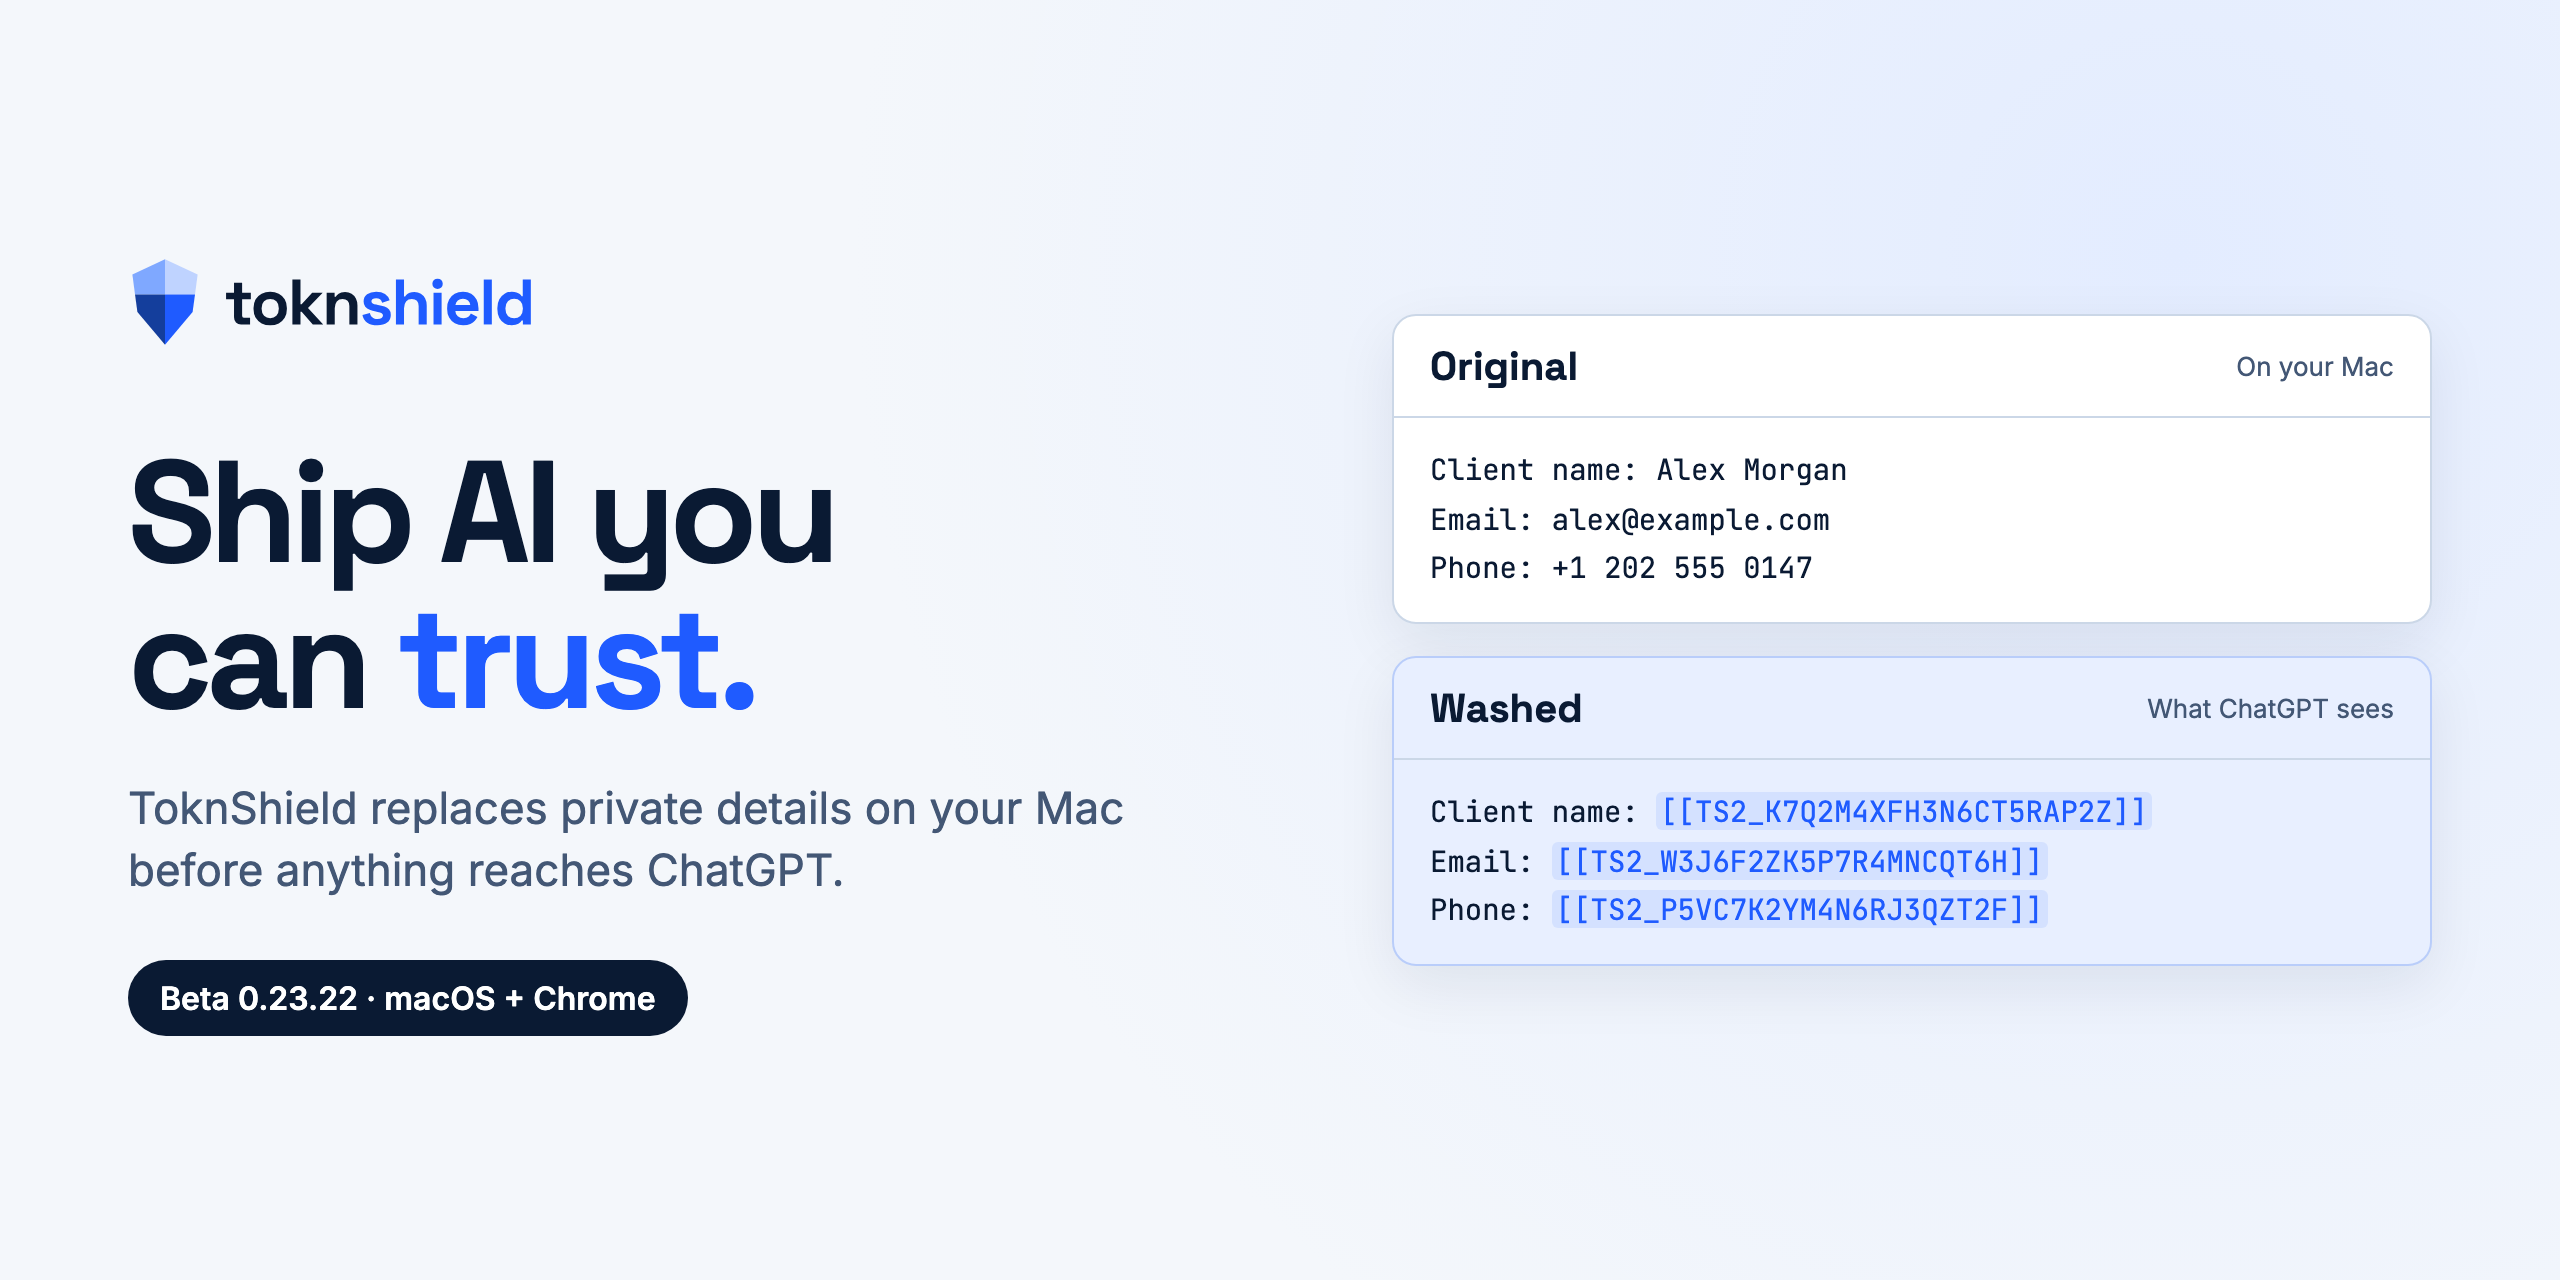
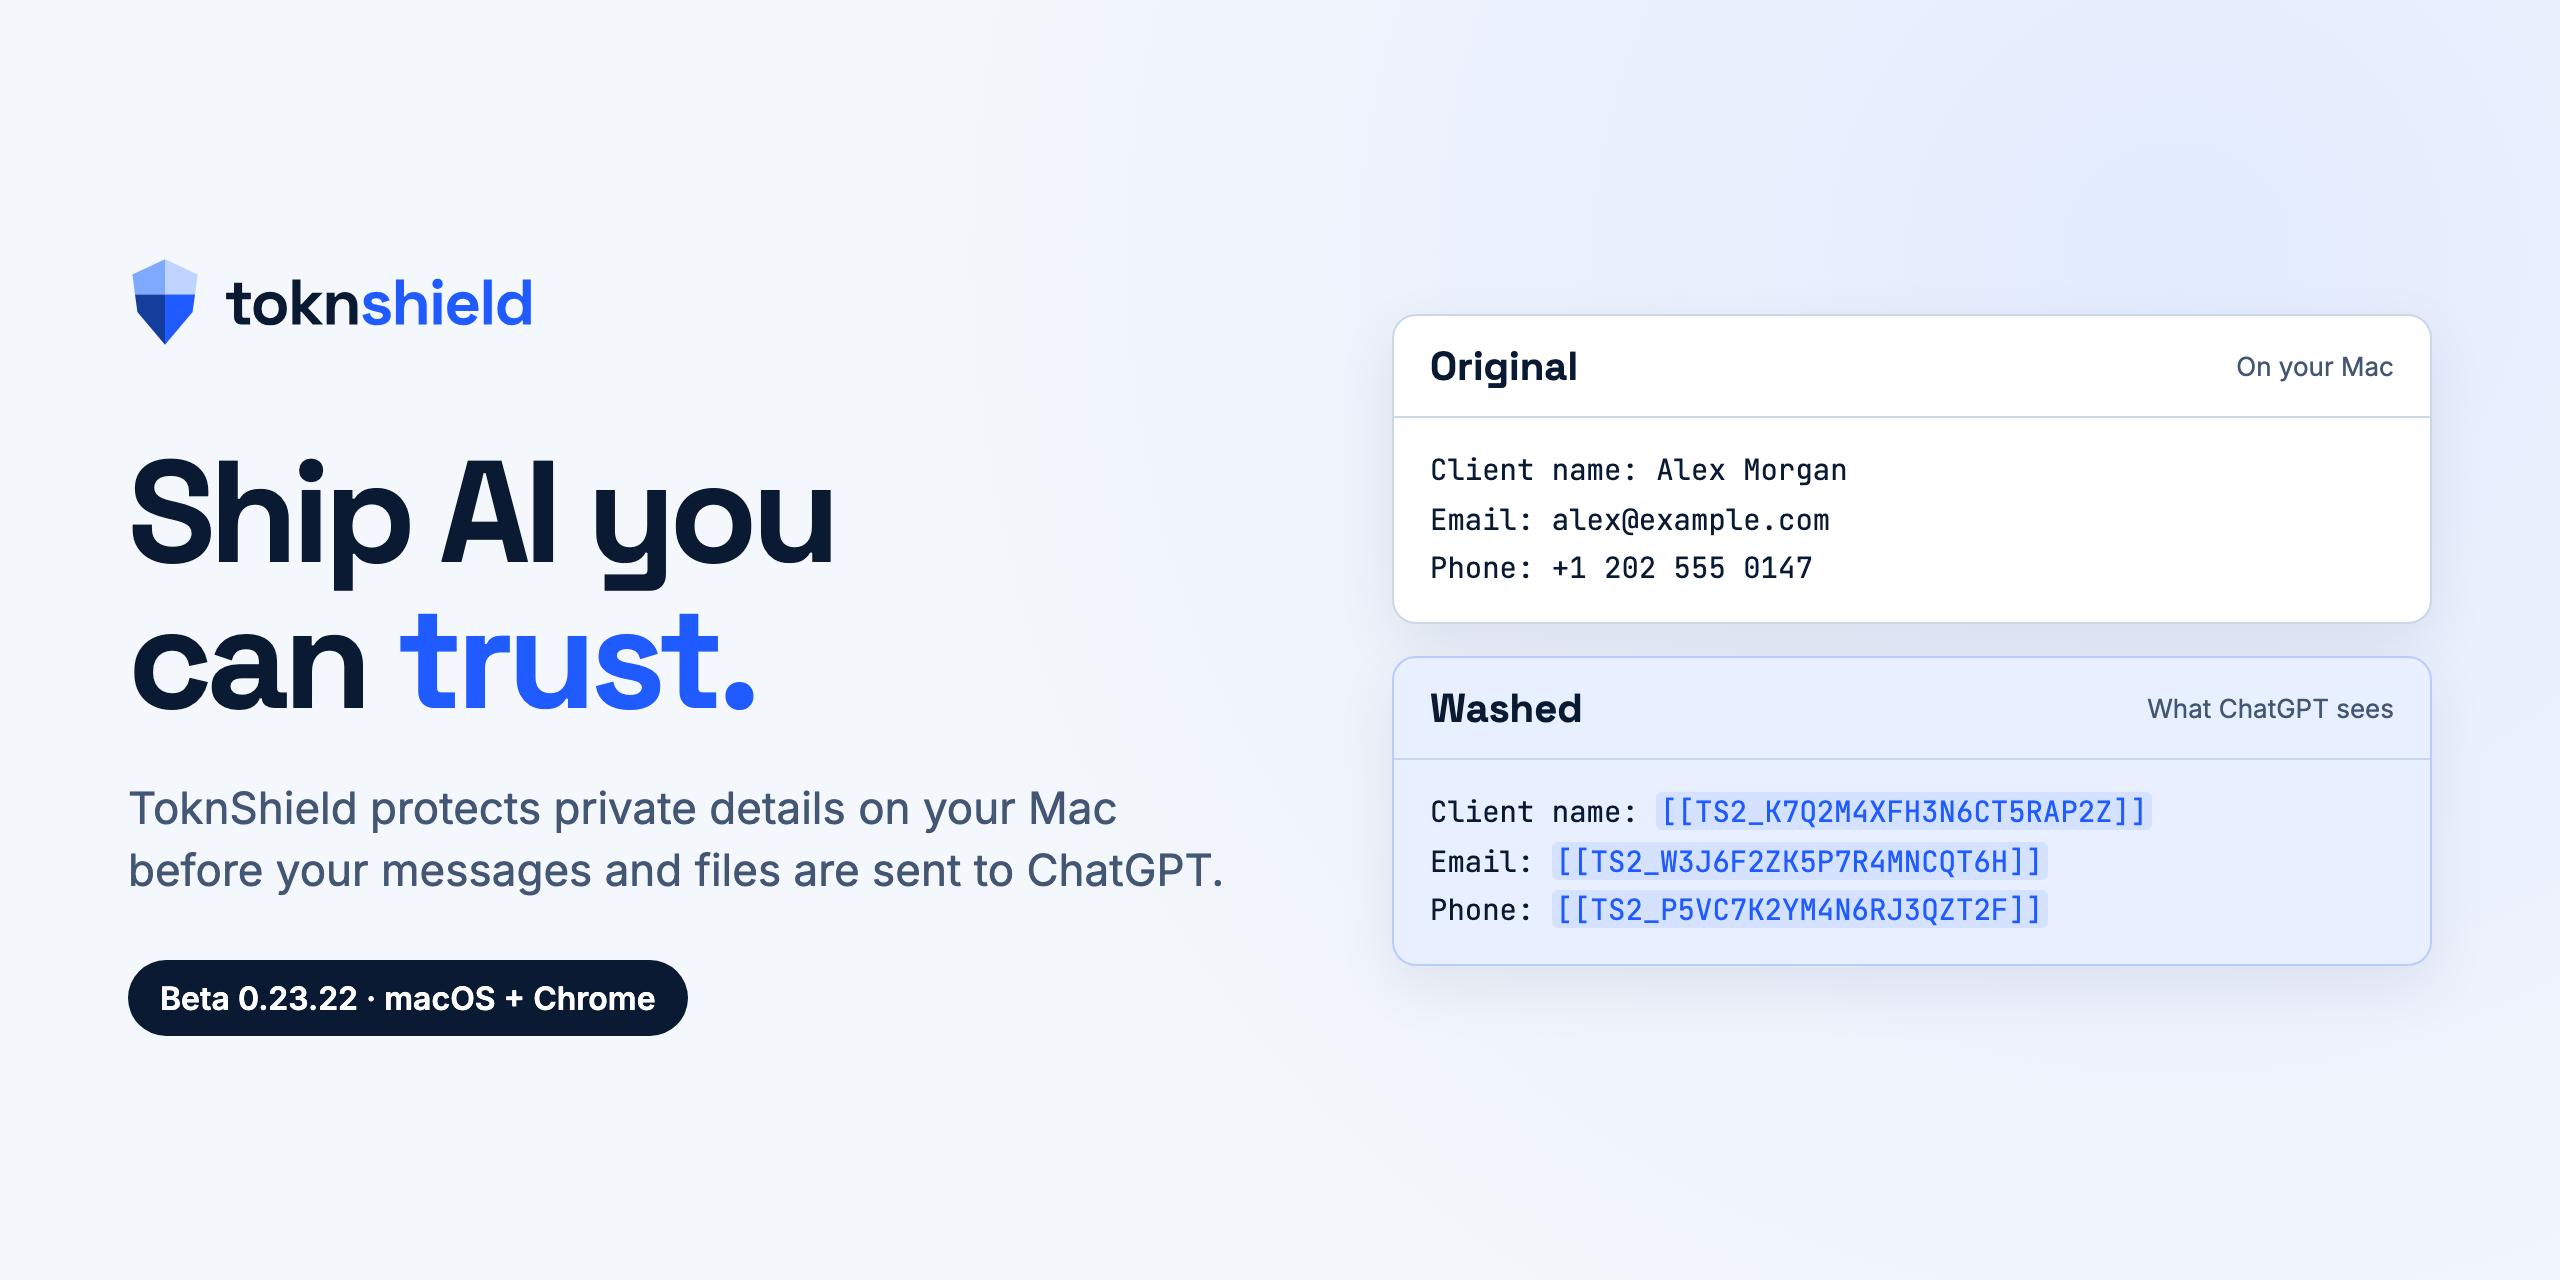
Extension 0.29.14.50 and accurate privacy wording
- Download links point to ToknShield-Chrome-Extension-0.29.14.50.zip
- Say originals stay on the Mac for files attached through ToknShield,
  and warn against picking private files from Drive or ChatGPT Library
- Install guide: update steps for existing testers

Changed region(s): [[0.0938, 0.625, 0.4688, 0.7188]]

diff --git a/index.html b/index.html
@@ -4,9 +4,9 @@
 <meta charset="utf-8">
 <meta name="viewport" content="width=device-width, initial-scale=1">
 <title>ToknShield Beta</title>
-<meta name="description" content="Download the ToknShield beta. Private details are replaced on your Mac before anything reaches ChatGPT.">
+<meta name="description" content="Download the ToknShield beta. Private details are protected on your Mac before your messages and files are sent to ChatGPT.">
 <meta property="og:title" content="ToknShield Beta: Ship AI you can trust">
-<meta property="og:description" content="Private details are replaced on your Mac before anything reaches ChatGPT.">
+<meta property="og:description" content="Private details are protected on your Mac before your messages and files are sent to ChatGPT.">
 <meta property="og:image" content="https://beta.toknshield.com/assets/banner.png">
 <meta name="twitter:card" content="summary_large_image">
 <meta name="color-scheme" content="light">
@@ -95,7 +95,7 @@ footer .wrap{display:flex;justify-content:space-between;flex-wrap:wrap;gap:12px}
   <div>
     <span class="tag">Private beta · version 0.23.22</span>
     <h1>Ship AI you can <em>trust.</em></h1>
-    <p class="lede">ToknShield replaces names, emails, phone numbers and account details on your Mac, before anything reaches ChatGPT. Your originals never leave your Mac.</p>
+    <p class="lede">ToknShield replaces names, emails, phone numbers and account details on your Mac before your messages and files are sent to ChatGPT.</p>
     <div class="cta">
       <a class="btn primary" href="#download">Download the beta</a>
       <a class="btn ghost" href="https://github.com/ToknShield/ToknShield-beta/blob/main/BETA-INSTALL.md">Install guide</a>
@@ -136,9 +136,10 @@ Phone: <span class="t">[[TS2_P5VC7K2YM4N6RJ3QZT2F]]</span></pre></div>
   <p class="sub">There's nothing to sign up for and nothing sent to us.</p>
   <div class="grid3">
     <div class="tile"><h3>On your Mac</h3><p>Detection and protection happen on your Mac. No servers, no accounts, no analytics.</p></div>
-    <div class="tile"><h3>Only the safe version</h3><p>ChatGPT receives placeholders, never the original text or document you protected.</p></div>
+    <div class="tile"><h3>Only the safe version</h3><p>When you attach a supported file through ToknShield, the original stays on your Mac and ChatGPT receives only the protected copy.</p></div>
     <div class="tile"><h3>Blocks when unsure</h3><p>If ToknShield can't confirm something is protected, it stops the send. It never falls back to the original.</p></div>
   </div>
+  <p class="fine" style="margin-top:20px">For this beta, use made-up or non-sensitive files, and don&rsquo;t select private files from Drive or ChatGPT Library. ChatGPT fetches those files itself, so ToknShield can&rsquo;t protect them.</p>
 </div></section>
 
 <section id="download"><div class="wrap">
@@ -147,8 +148,8 @@ Phone: <span class="t">[[TS2_P5VC7K2YM4N6RJ3QZT2F]]</span></pre></div>
   <div class="dl">
     <a href="https://github.com/ToknShield/ToknShield-beta/releases/download/v0.23.22-beta/ToknShield-0.23.22-beta.pkg">
       <span><b>Mac app</b><small>ToknShield-0.23.22-beta.pkg · 2.2 MB</small></span><span class="arrow">↓</span></a>
-    <a href="https://github.com/ToknShield/ToknShield-beta/releases/download/v0.23.22-beta/ToknShield-Chrome-Extension-0.29.14.49.zip">
-      <span><b>Chrome extension</b><small>ToknShield-Chrome-Extension-0.29.14.49.zip · 2.9 MB</small></span><span class="arrow">↓</span></a>
+    <a href="https://github.com/ToknShield/ToknShield-beta/releases/download/v0.23.22-beta/ToknShield-Chrome-Extension-0.29.14.50.zip">
+      <span><b>Chrome extension</b><small>ToknShield-Chrome-Extension-0.29.14.50.zip · 2.9 MB</small></span><span class="arrow">↓</span></a>
   </div>
   <ol class="steps" style="margin-top:28px">
     <li><b>Install the app</b><span>Quit Chrome, open the .pkg and follow the installer. A shield appears in your menu bar.</span></li>

diff --git a/BETA-INSTALL.md b/BETA-INSTALL.md
@@ -1,9 +1,9 @@
 # Installing the ToknShield beta
 
-ToknShield beta 0.23.22: the Mac app plus the Chrome extension (version 0.29.14.49). Setup takes about five minutes.
+ToknShield beta 0.23.22: the Mac app plus the Chrome extension (version 0.29.14.50). Setup takes about five minutes.
 
 You'll need a Mac with Google Chrome, an administrator password for the Mac, and ChatGPT set to English.
-While you're trying the beta, please use made-up or non-sensitive details.
+When you attach a supported file through ToknShield, the original stays on your Mac and ChatGPT receives only the protected copy. For this beta, use made-up or non-sensitive files, and don't select private files from Drive or ChatGPT Library.
 
 Questions or problems: **[tom@capinora.com](mailto:tom@capinora.com)**
 
@@ -12,7 +12,7 @@ Questions or problems: **[tom@capinora.com](mailto:tom@capinora.com)**
 From the [release page](https://github.com/ToknShield/ToknShield-beta/releases/tag/v0.23.22-beta), download both files:
 
 - `ToknShield-0.23.22-beta.pkg`: the Mac app
-- `ToknShield-Chrome-Extension-0.29.14.49.zip`: the Chrome extension
+- `ToknShield-Chrome-Extension-0.29.14.50.zip`: the Chrome extension
 
 Double-click the zip to unzip it. Move the **ToknShield Chrome Extension** folder somewhere permanent, such as your Documents folder.
 Chrome runs the extension from this folder, so if you delete or move it later, the extension stops working.
@@ -80,6 +80,16 @@ The original details are shown in ToknShield's own window, on your Mac only.
   ToknShield stops the message being sent, but it can't stop that fetch, so avoid picking private files from there.
 - **In a small Chrome window,** scroll inside the ToknShield panel to find the PDF review and the Attach button.
 
+## Updating the extension
+
+If you installed an earlier beta extension, you don't need to reinstall the Mac app.
+
+1. Download `ToknShield-Chrome-Extension-0.29.14.50.zip` from the release page and unzip it.
+2. Replace your existing **ToknShield Chrome Extension** folder with the new one, in the same place.
+3. In Chrome, go to `chrome://extensions` and click the reload arrow on ToknShield. It should now say version 0.29.14.50.
+
+The Mac app's menu may still show "Extension 0.29.14.49". That label is fixed in the installer, and the two work together.
+
 ## Removing ToknShield
 
 1. Quit Chrome, then quit ToknShield from the shield in the menu bar.
@@ -102,5 +112,5 @@ If you install an older version over a newer one, macOS reports success but keep
 To confirm the files are exactly what we published, run this in Terminal and compare the results with `SHA256SUMS` on the release page:
 
 ```
-shasum -a 256 ~/Downloads/ToknShield-0.23.22-beta.pkg ~/Downloads/ToknShield-Chrome-Extension-0.29.14.49.zip
+shasum -a 256 ~/Downloads/ToknShield-0.23.22-beta.pkg ~/Downloads/ToknShield-Chrome-Extension-0.29.14.50.zip
 ```

diff --git a/README.md b/README.md
@@ -1,5 +1,5 @@
 <p align="center">
-  <img src="assets/banner.png" alt="ToknShield: Ship AI you can trust. Private details are replaced on your Mac before anything reaches ChatGPT." width="100%">
+  <img src="assets/banner.png" alt="ToknShield: Ship AI you can trust. Private details are protected on your Mac before your messages and files are sent to ChatGPT." width="100%">
 </p>
 
 <p align="center">
@@ -16,7 +16,7 @@
 
 Thanks for joining the ToknShield beta.
 
-ToknShield lets you use ChatGPT without handing over private details. It runs on your Mac. Before a message or document is sent, ToknShield replaces names, email addresses, phone numbers, addresses and account details with safe placeholders. The originals never leave your Mac, and ChatGPT's reply can be restored with the real details, only on your Mac.
+ToknShield lets you use ChatGPT without handing over private details. It runs on your Mac. Before a message or document is sent, ToknShield replaces names, email addresses, phone numbers, addresses and account details with safe placeholders. When you attach a supported file through ToknShield, the original stays on your Mac and ChatGPT receives only the protected copy. ChatGPT's reply can be restored with the real details, only on your Mac.
 
 ## See it in action
 
@@ -32,8 +32,8 @@ ToknShield lets you use ChatGPT without handing over private details. It runs on
 ### Your privacy
 
 - **Everything happens on your Mac.** No servers, no accounts, no analytics.
-- **ChatGPT only receives the protected version.** It never gets the original text or document you protected.
-- **Your originals stay with you.** Nobody else can see them, us included.
+- **ChatGPT receives only the protected copy.** When you attach a supported file through ToknShield, the original stays on your Mac and ChatGPT receives only the protected copy.
+- **Keep private files out of Drive and Library picks.** For this beta, use made-up or non-sensitive files, and don't select private files from Drive or ChatGPT Library. ChatGPT fetches those itself, so ToknShield can't protect them.
 - **Only on chatgpt.com.** The extension can't read other websites.
 - **When in doubt, it blocks.** If ToknShield can't confirm something is protected, it stops the send. It never falls back to the original.
 
